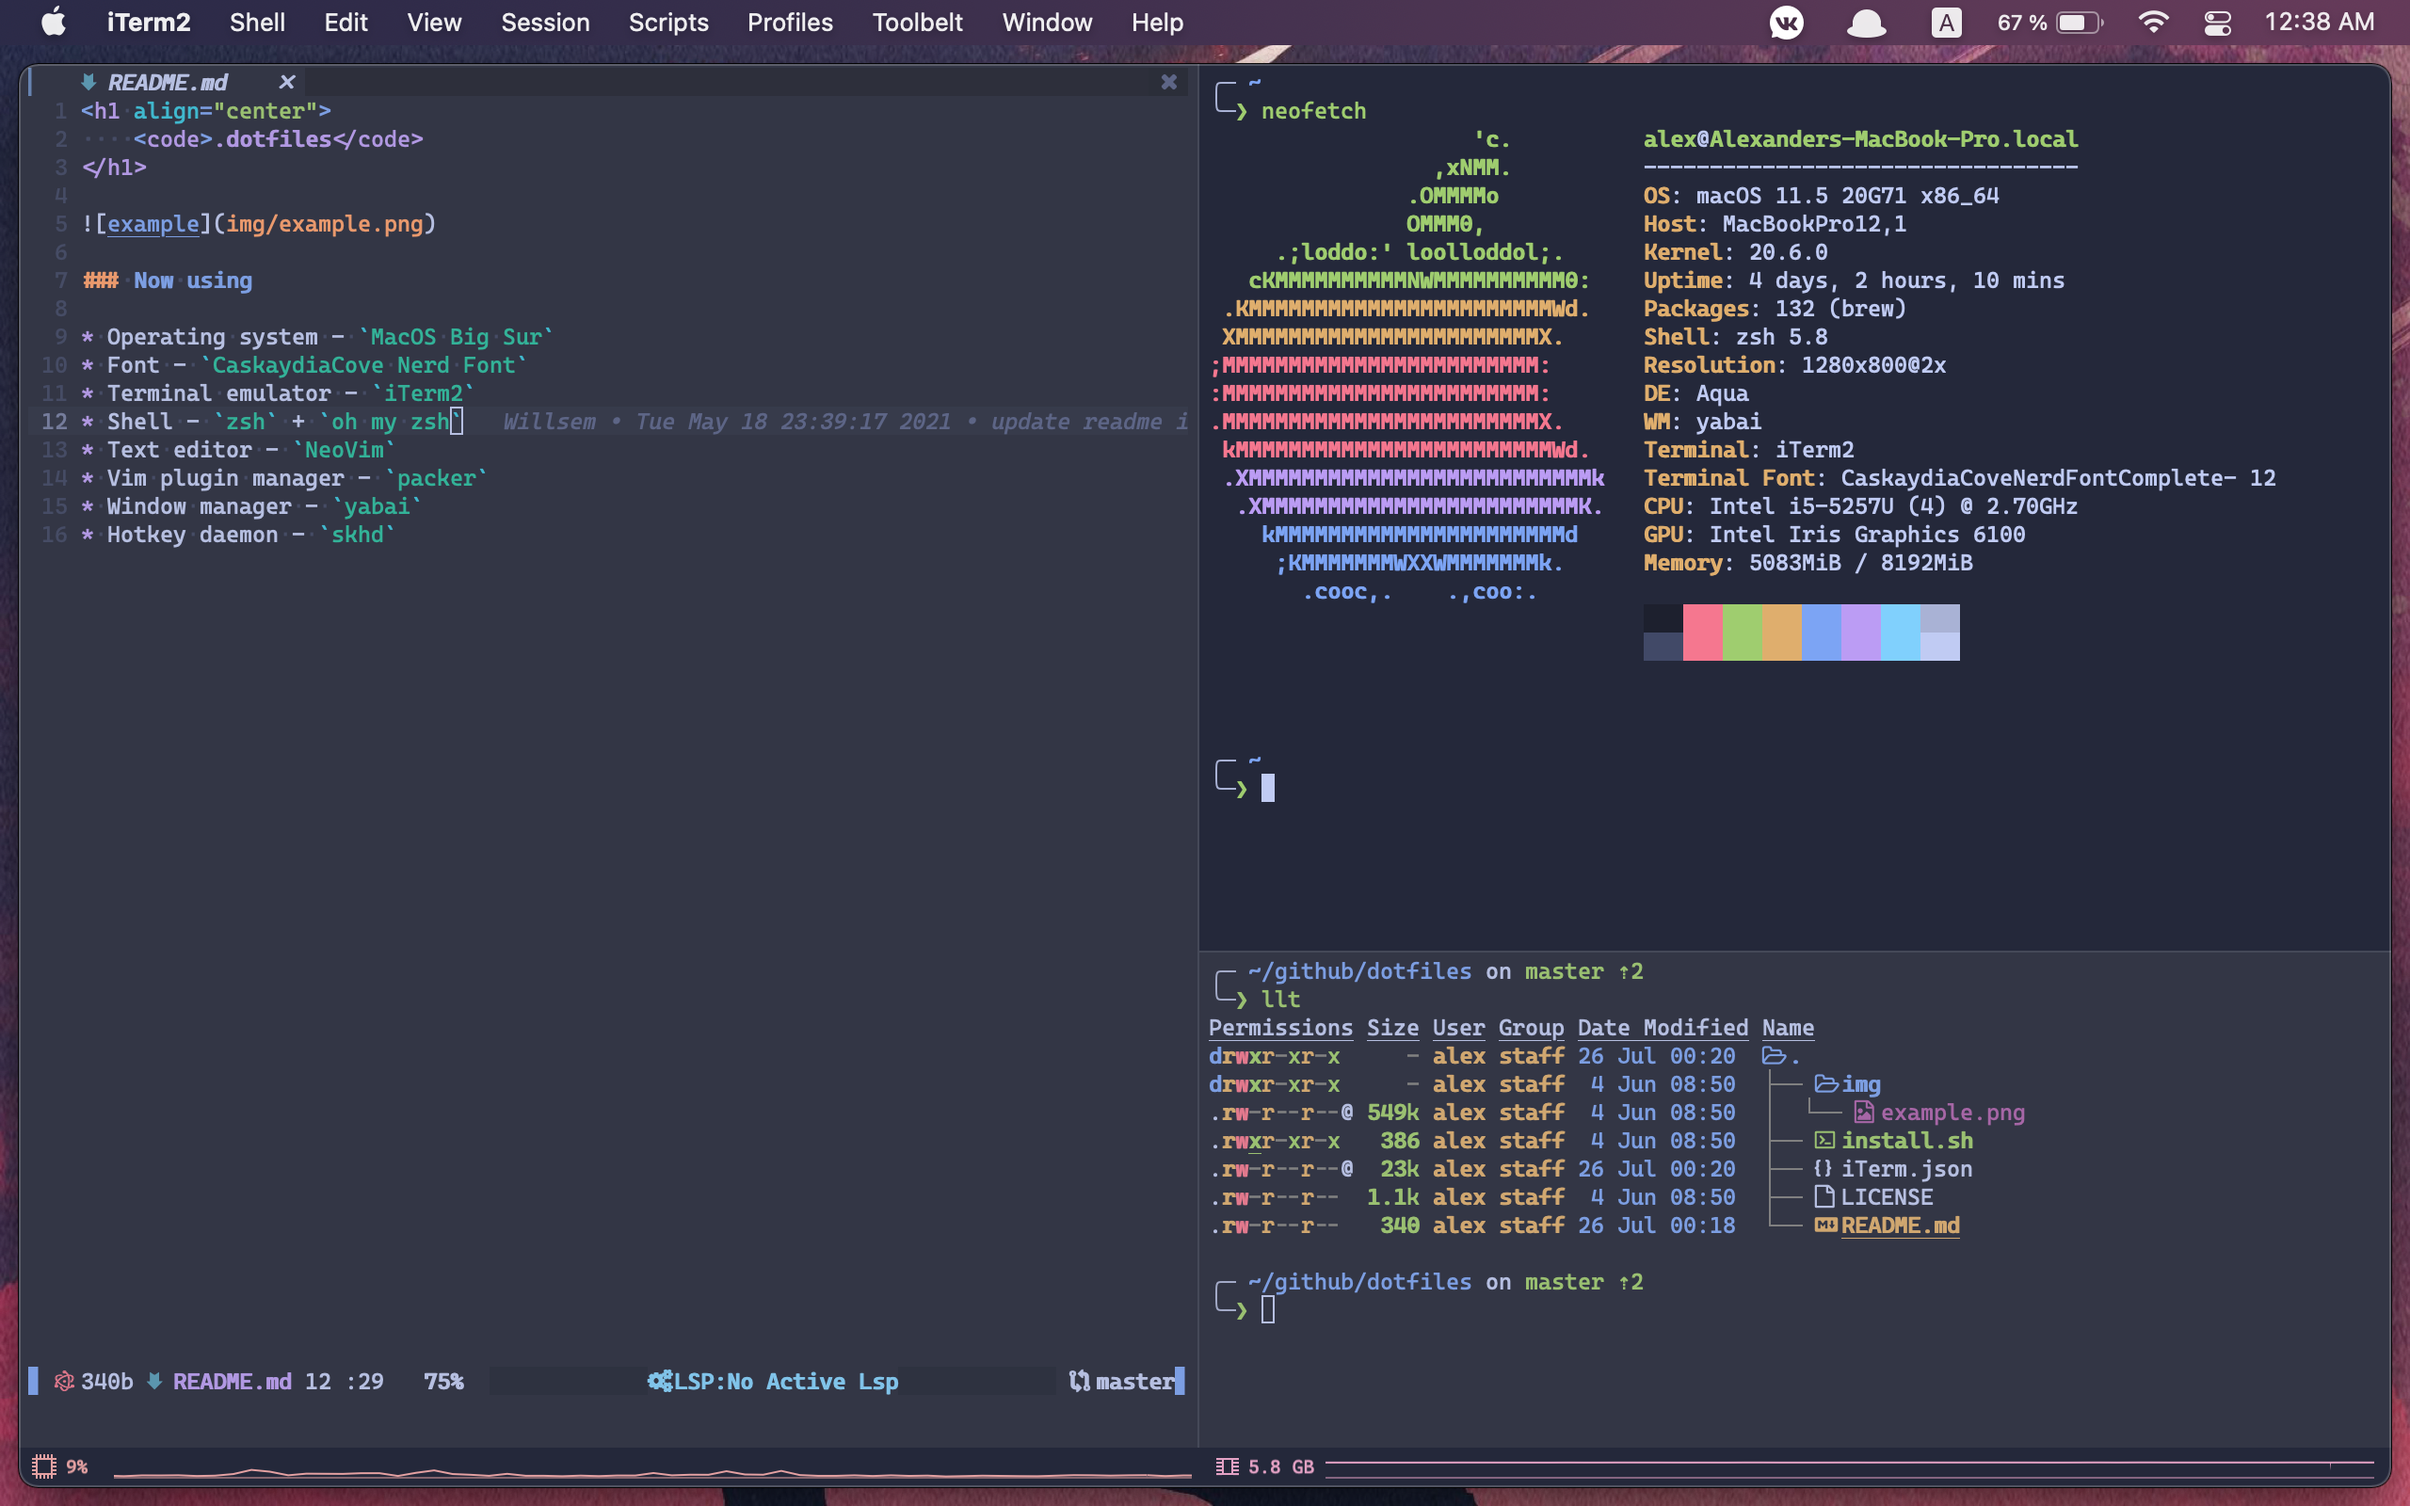
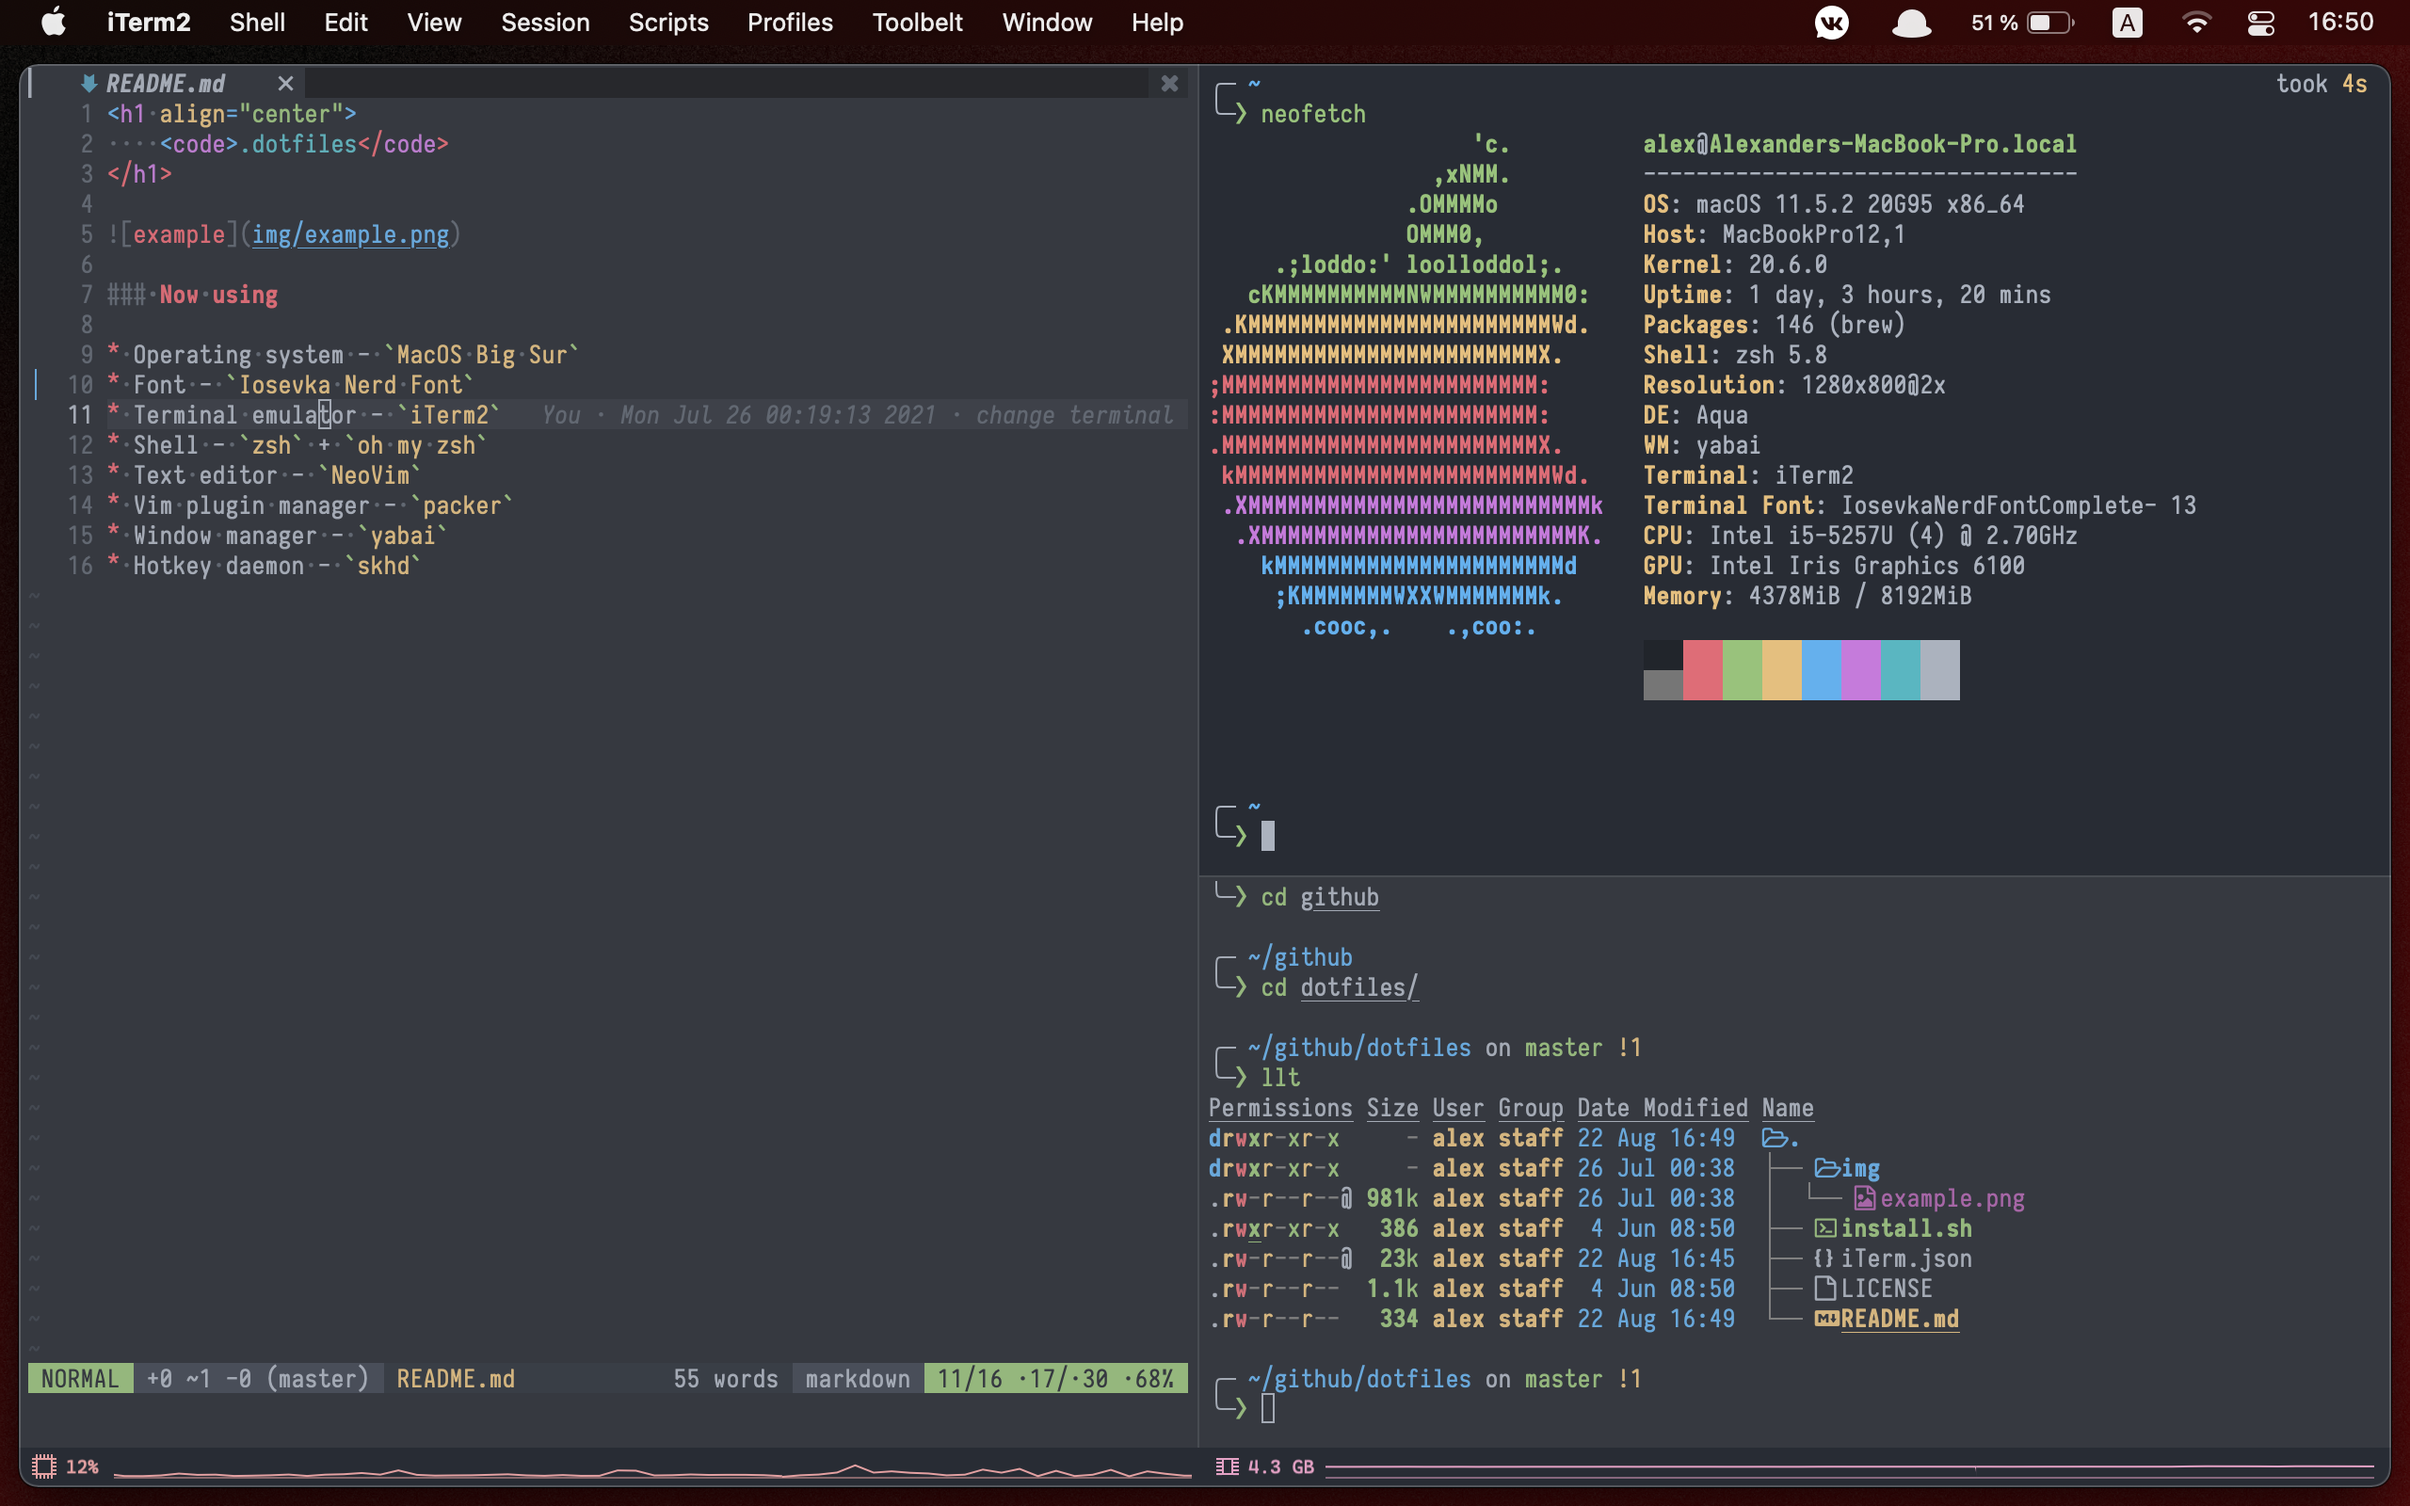
update iformation

Changed region(s): [[0.0, 0.0, 1.0, 1.0], [0.25, 0.5938, 0.8438, 0.9375], [0.5, 0.5, 0.5312, 0.5625]]

diff --git a/README.md b/README.md
@@ -7,7 +7,7 @@
 ### Now using
 
 * Operating system - `MacOS Big Sur`
-* Font - `CaskaydiaCove Nerd Font`
+* Font - `Iosevka Nerd Font`
 * Terminal emulator - `iTerm2`
 * Shell - `zsh` + `oh my zsh`
 * Text editor - `NeoVim`
